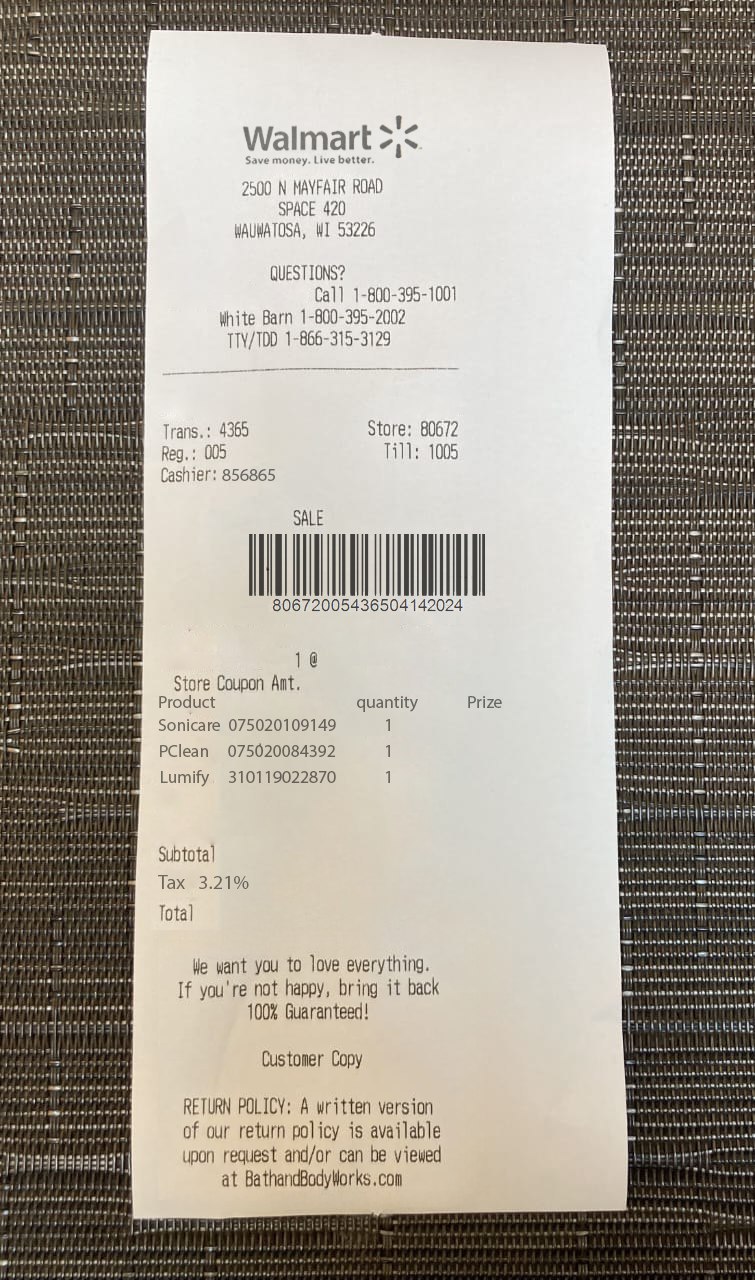
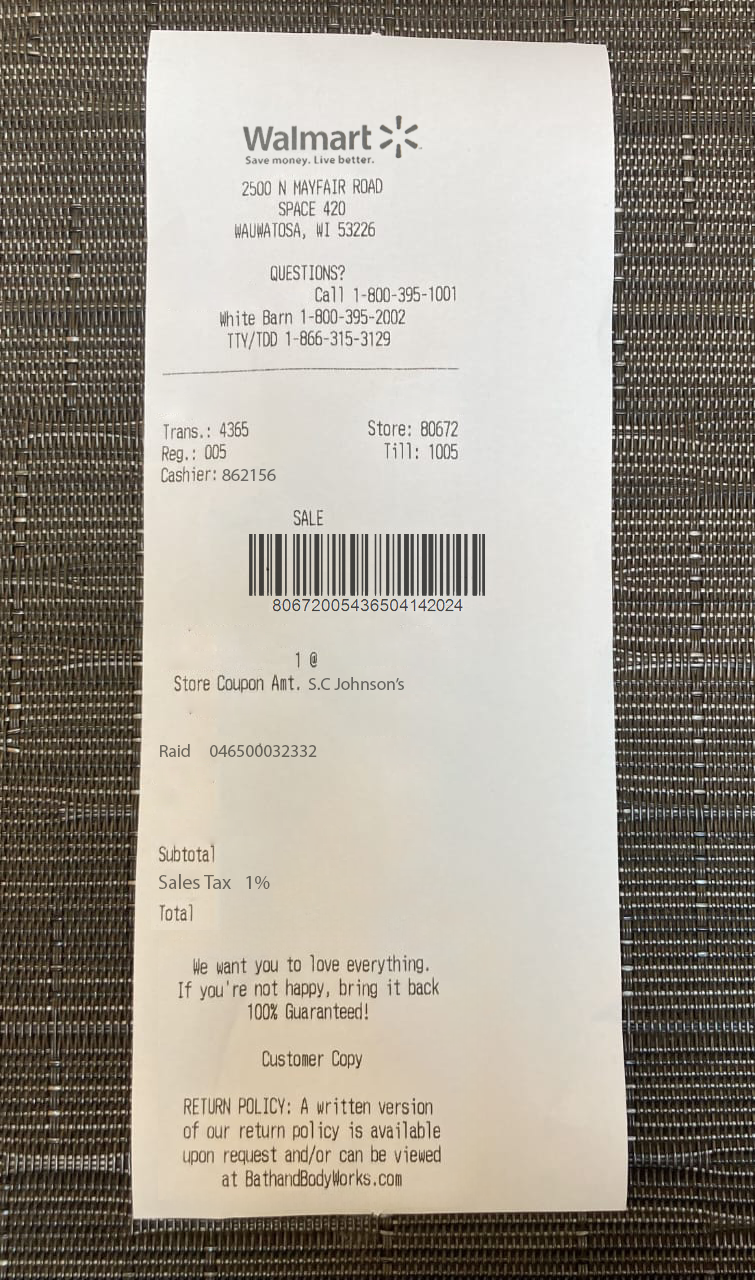
tax add

diff --git a/index.html b/index.html
@@ -159,11 +159,11 @@
                         </div> -->
                        
                         <div class="absolute bottom-[-220px] left-[-37px] textareas">
-                            <div class="absolute bottom-[605px] left-[141px] textareas">
+                            <!-- <div class="absolute bottom-[605px] left-[141px] textareas">
     
                                 <h1 class="font-semibold text-right"><span id="coupon">0665486349254</span>
                                 </h1>
-                            </div> 
+                            </div>  -->
                             <div class="absolute bottom-[544px] left-[345px] textareas">
     
                                 <h1 class="font-semibold text-right"><span id="firstPrizeChange">279.99</span>
@@ -194,7 +194,7 @@
                             </div> -->
                           
                             
-                            <div class="absolute bottom-[456px] left-[345px] textareas">
+                            <div class="absolute bottom-[457px] left-[345px] textareas">
     
                                 <h1 class="font-semibold text-right"><span id="tax">6.22</span>
                                 </h1>

diff --git a/app.js b/app.js
@@ -49,7 +49,7 @@ document.getElementById("submit").addEventListener("click", function () {
 
     let subTotalResult = parseFloat(subtotal.toFixed(2));
 
-    let tax = (subtotal*3.21)/100;
+    let tax = (subtotal*1)/100;
     let taxresult = parseFloat(tax.toFixed(2));
 
 
@@ -85,8 +85,8 @@ document.getElementById("submit").addEventListener("click", function () {
     // document.getElementById("changeUpdate").innerText = ChangePrizeRound;
     // document.getElementById("randomOrder").innerText = randomOrder;
     
-   var randomOrder = Math.floor(Math.random() * 9999999999999);
-    document.getElementById("coupon").innerText = randomOrder;
+//    var randomOrder = Math.floor(Math.random() * 9999999999999);
+//     document.getElementById("coupon").innerText = randomOrder;
     
 
 });
